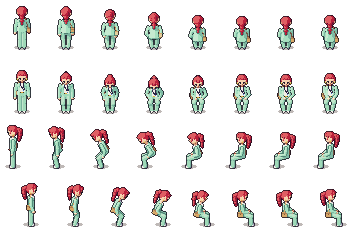
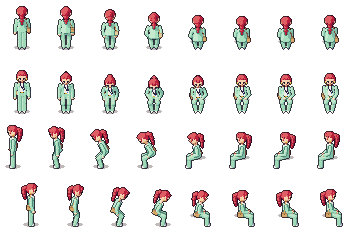
feat(art): move a seated character's shadow under the pelvis
Once a seated pose rests on the seat (sit frames 4-7), the soft contact shadow is centered on the seat point under the pelvis instead of under the feet, so the character reads as sitting; mid-transition frames keep it under the planted feet. Standing and walking frames are unchanged. CHARACTER_RENDER_VERSION goes to 5 so newly saved custom characters get fresh asset URLs.

diff --git a/src/art/sitSheet.node.test.ts b/src/art/sitSheet.node.test.ts
@@ -185,3 +185,60 @@ test('each transition frame is a distinct drawing', () => {
     }
   }
 });
+
+/** Pixels the soft contact shadow shows through: neither empty nor part of the opaque figure. */
+function translucentPixels(image: PixelBuffer): { x: number; y: number }[] {
+  const pixels: { x: number; y: number }[] = [];
+  for (let y = 0; y < image.height; y += 1) {
+    for (let x = 0; x < image.width; x += 1) {
+      const alpha = image.alphaAt(x, y);
+      if (alpha > 0 && alpha < 255) pixels.push({ x, y });
+    }
+  }
+  return pixels;
+}
+
+/** Same footprint the renderer stamps: an ellipse centered half a pixel above a contact point. */
+function insideShadow(pixel: { x: number; y: number }, contact: { x: number; y: number }): boolean {
+  const u = (pixel.x + 0.5 - contact.x) / 7.5;
+  const w = (pixel.y + 0.5 - (contact.y - 0.5)) / 2.4;
+  return u * u + w * w <= 1;
+}
+
+function assertShadowAt(image: PixelBuffer, contact: { x: number; y: number }, label: string): void {
+  const shadow = translucentPixels(image);
+  // Seen from the front the thighs cover most of a seat shadow: a sliver beside the hips is enough.
+  assert.ok(shadow.length > 0, `${label}: no shadow pixel shows`);
+  const stray = shadow.filter((pixel) => !insideShadow(pixel, contact));
+  assert.deepEqual(stray, [], `${label}: shadow pixels away from (${contact.x}, ${contact.y})`);
+}
+
+test('once the pelvis rests on the seat the contact shadow is under it, not under the feet', () => {
+  for (const { character, sit } of sample) {
+    for (const facing of FACINGS) {
+      for (let column = 0; column < SIT_FRAME_COUNT; column += 1) {
+        const pose = sitPose(column);
+        const label = `${character.id} ${facing} ${column}`;
+        const image = cell(sit, facing, column);
+        if ('sit' in pose && pose.sit.lower === 1) {
+          assertShadowAt(image, { x: SIT_ANCHOR_X, y: SIT_ANCHOR_Y }, label);
+        } else {
+          // Still on its feet (or rising): the shadow stays on the floor under the planted feet.
+          const feet = sitFrameGeometry(facing);
+          assertShadowAt(image, { x: feet.anchorX, y: feet.anchorY }, label);
+        }
+      }
+    }
+  }
+});
+
+test('standing idle frames keep the contact shadow under the feet', () => {
+  for (const { character, idle } of sample) {
+    for (const facing of FACINGS) {
+      const rect = frameRect(FACING_DIRECTION[facing], 0);
+      const image = new PixelBuffer(rect.width, rect.height);
+      image.blit(idle, -rect.x, -rect.y);
+      assertShadowAt(image, { x: ANCHOR_X, y: ANCHOR_Y }, `${character.id} ${facing} idle`);
+    }
+  }
+});

diff --git a/src/art/spriteRenderer.ts b/src/art/spriteRenderer.ts
@@ -4,7 +4,8 @@
  * 2. cel shading into a hue-shifted ramp (plus cast shadows from a second ray),
  * 3. contour lines where a nearer part overlaps a farther one,
  * 4. crisp decals (eyes, badge, lanyard...) stamped where their anchor is visible,
- * 5. a dark outline around the silhouette and a soft contact shadow under the feet.
+ * 5. a dark outline around the silhouette and a soft contact shadow under the feet, or under the
+ *    pelvis once a seated pose rests on the seat (Scene.contact).
  */
 import { CAMERA_PITCH, LIGHT_DIRECTION, WALK_FRAME, type FrameGeometry } from './camera.ts';
 import { hexToRgba, mixRgba, TONES, type Ramp, type Tone } from '../game/artColor.ts';
@@ -235,14 +236,16 @@ export function renderScene(scene: Scene, ramps: Ramps, yaw: number, frame: Fram
   figure.addOutline((neighbor) => mixRgba(neighbor, OUTLINE_INK, 0.78));
 
   const image = new PixelBuffer(width, height);
-  drawContactShadow(image, frame);
+  const contact = scene.contact ? { x: projectX(camera, scene.contact), y: projectY(camera, scene.contact) } : { x: frame.anchorX, y: frame.anchorY };
+  drawContactShadow(image, contact);
   image.blit(figure, 0, 0);
   return image;
 }
 
-function drawContactShadow(image: PixelBuffer, frame: FrameGeometry): void {
-  const cx = frame.anchorX;
-  const cy = frame.anchorY - 0.5;
+/** `contact` is the screen point the weight rests on; the ellipse sits in the pixel row above it. */
+function drawContactShadow(image: PixelBuffer, contact: { readonly x: number; readonly y: number }): void {
+  const cx = contact.x;
+  const cy = contact.y - 0.5;
   const rx = 7.5;
   const ry = 2.4;
   for (let y = Math.floor(cy - ry); y <= Math.ceil(cy + ry); y += 1) {

diff --git a/src/art/rig.ts b/src/art/rig.ts
@@ -83,6 +83,11 @@ export interface Scene {
   readonly decals: readonly Decal[];
   /** Seated poses only: the point under the pelvis center, on the seat once fully seated. */
   readonly seat?: Vec3;
+  /**
+   * Where the body rests its weight, if not on the ground under the feet: the soft contact
+   * shadow is centered here, so a seated character reads as sitting on the seat.
+   */
+  readonly contact?: Vec3;
 }
 
 const DEG = Math.PI / 180;
@@ -319,6 +324,7 @@ function buildSeatedScene(spec: CharacterSpec, pose: SeatedPose, seatBack: numbe
   addLeg(rig.fixed, body, LEFT, legs[LEFT]);
   addLeg(rig.fixed, body, RIGHT, legs[RIGHT]);
   addUpperBody(body);
+  const seat = v3(0, hipY - HIP_ABOVE_SEAT, hipZ);
   return {
     primitives: [...rig.fixed, ...body.prims.map((primitive) => transformed(primitive, lean, offset))],
     decals: body.decals.map((decal) => ({
@@ -326,7 +332,9 @@ function buildSeatedScene(spec: CharacterSpec, pose: SeatedPose, seatBack: numbe
       anchor: add(applyBasis(lean, decal.anchor), offset),
       normal: applyBasis(lean, decal.normal),
     })),
-    seat: v3(0, hipY - HIP_ABOVE_SEAT, hipZ),
+    seat,
+    // Mid-transition the pelvis hangs in the air and the weight is still on the feet.
+    ...(sit.lower === 1 ? { contact: seat } : {}),
   };
 }
 

diff --git a/src/art/customCharacter.node.test.ts b/src/art/customCharacter.node.test.ts
@@ -191,9 +191,9 @@ describe('toCharacterSpec', () => {
   });
 
   it('pins the hash of a fixed spec, so a new render version or encoding is a visible decision', () => {
-    // Version 4: derived colors follow rules for any rgb input. Update only together with the version.
-    expect(CHARACTER_RENDER_VERSION).toBe(4);
-    expect(customCharacterHash(CHARACTER_TEMPLATES[0]!.spec)).toBe('23fb28cf061fb37021d909fb39d7b97a');
+    // Version 5: the seated contact shadow sits under the pelvis. Update only together with the version.
+    expect(CHARACTER_RENDER_VERSION).toBe(5);
+    expect(customCharacterHash(CHARACTER_TEMPLATES[0]!.spec)).toBe('77a9f638ca69c3f77496b582be55e8a2');
   });
 
   it('uses the top color as the shirt itself when there is no jacket', () => {

diff --git a/src/art/customCharacter.ts b/src/art/customCharacter.ts
@@ -25,7 +25,7 @@ import { sha256Hex } from './sha256.ts';
  * `/assets/characters/<hash>/*` URLs) changes, so no browser keeps a stale cached sheet for a
  * newly saved character. Rows saved before keep their hash and are drawn by the current renderer.
  */
-export const CHARACTER_RENDER_VERSION = 4;
+export const CHARACTER_RENDER_VERSION = 5;
 
 export const CUSTOM_CHARACTER_ID_PREFIX = 'character-custom-';
 const HASH_LENGTH = 32;

diff --git a/docs/art/contract.md b/docs/art/contract.md
@@ -11,6 +11,7 @@ The executable source of truth is `src/game/artContract.ts` (`ART_CONTRACT_VERSI
   - **Anchor**: the pixel that lands on the world point, such as the feet, the seat or the floor under a desk.
 - Files are 8-bit RGBA PNGs (`png-rgba8`), non-interlaced. Each file holds a fixed grid of frames, and the grid depends on the kind. The grid is the contract.
 - Partial alpha is allowed. The pack uses it on purpose for contact shadows (alpha 78) and glass (110 to 220).
+- A character's contact shadow sits under its feet, except in the seated frames (sit-down frames 4-5 and the seated idle frames 6-7), where the pelvis rests on the seat: there it is centered on the seat anchor (22, 42), so the sitter reads as sitting on the seat.
 - Each file can use at most 128 distinct non-transparent RGBA values (`MAX_COLORS_PER_IMAGE`). The busiest character sheet has about 75, so 128 leaves room for new art. Photos, gradients and smoothed upscales still fail, because they reach hundreds of values. The terrain tileset gathers eight materials, so its cap applies to each material band (`colorBandRows`), not to the whole file.
 - Sprite frames must not carry a background: the four corner pixels of every frame are transparent. Floors must be fully opaque.
 
